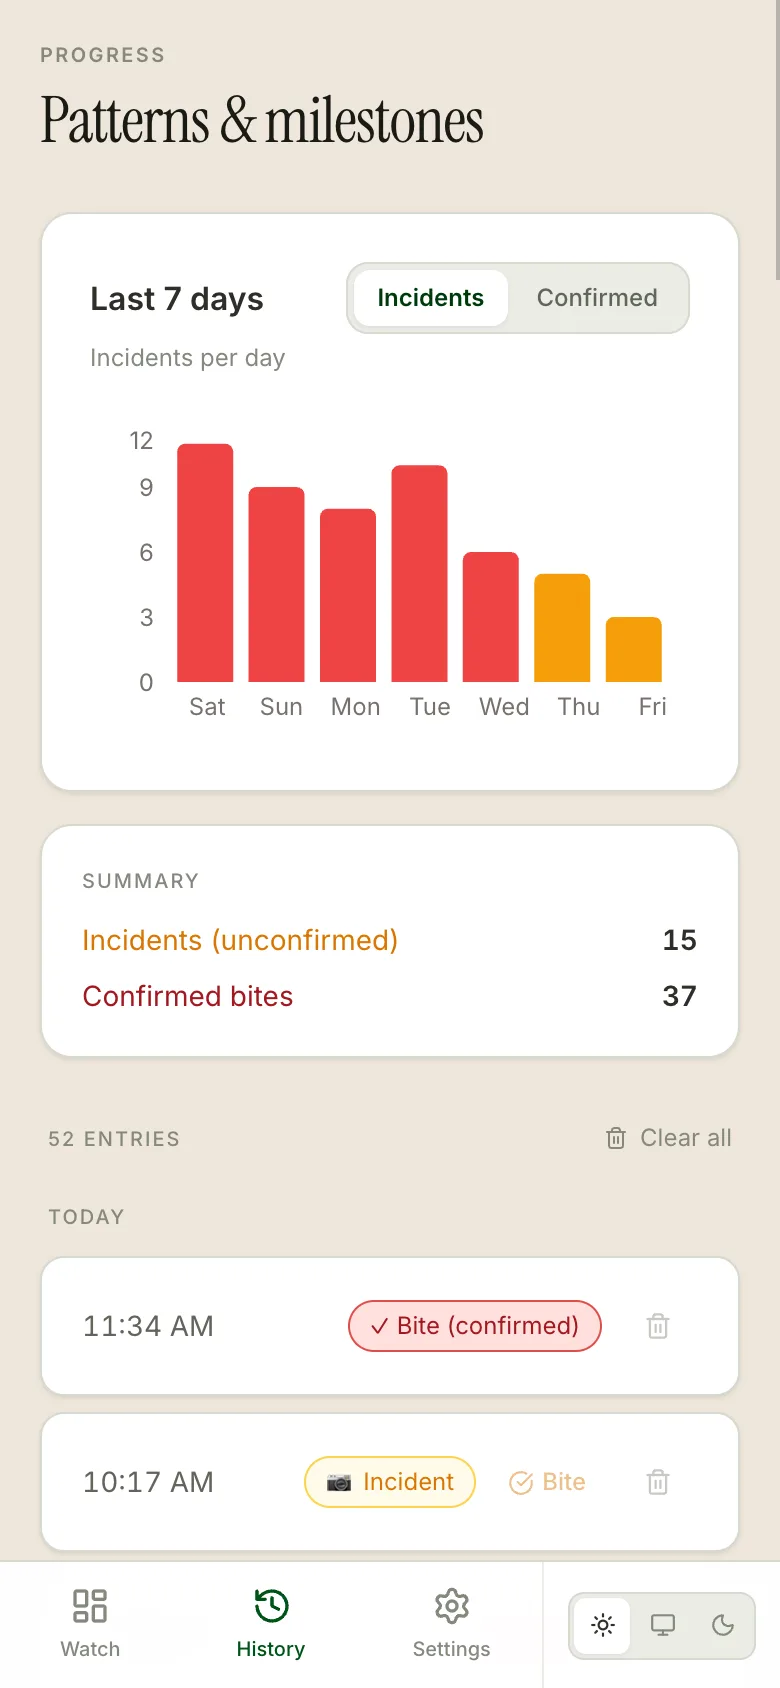
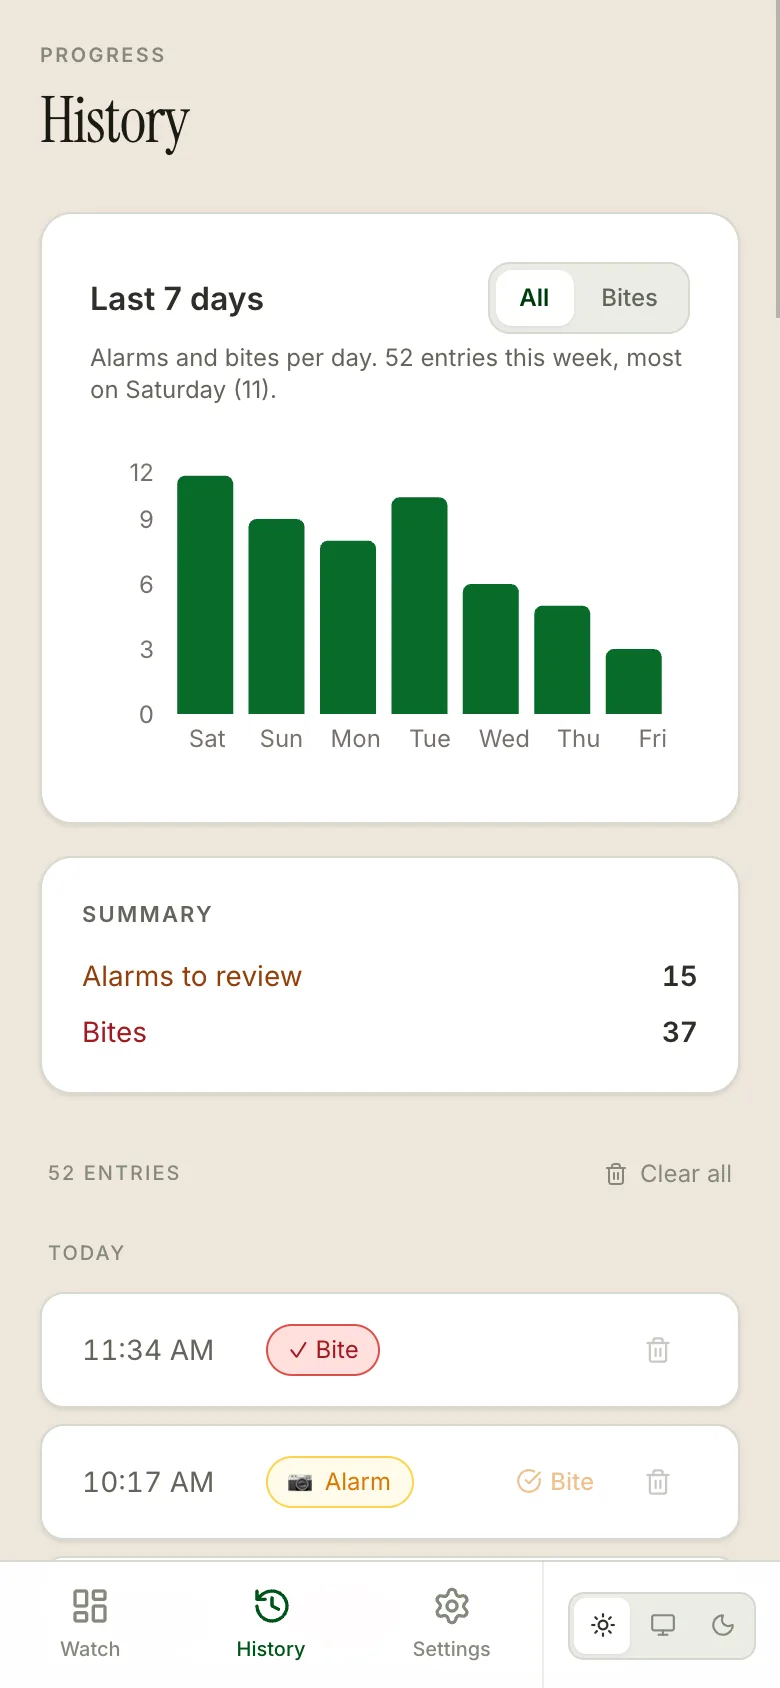
design(loop 5/10): make History say one thing with one vocabulary
Tags no longer jump sideways (time and tag grouped left, actions in their own group). One pair of words: Alarm (auto-detected, to review) and Bite; the chart toggle is All/Bites, the summary says Alarms to review/Bites, Today says alarms to review/bites. Title is History (there were no milestones). Chart: one forest fill instead of green/amber/red by count, a one-line text summary of the week, hidden when empty; Last 7 days and Summary are headings. Dead severity util removed. Homepage History screenshot recaptured. Checked light and dark.

diff --git a/src/pages/Log.tsx b/src/pages/Log.tsx
@@ -2,22 +2,19 @@ import { useState } from 'react';
 import { Trash2, CheckCircle } from 'lucide-react';
 import { useAppStore } from '../store/useAppStore';
 import { formatTime, formatDate } from '../utils/time';
-import { BarChart, Bar, XAxis, YAxis, Tooltip, ResponsiveContainer, Cell } from 'recharts';
+import { BarChart, Bar, XAxis, YAxis, Tooltip, ResponsiveContainer } from 'recharts';
 import { subDays, startOfDay, format } from 'date-fns';
 import { PageHeader } from '../components/layout/PageHeader';
 import { SegmentedControl } from '../components/ui/SegmentedControl';
 import type { CustomTag, Incident, StatsMetric } from '../types';
-import { severityForCount, type Severity } from '../utils/severity';
+// One fill for every bar. Colouring bars by count (green, amber, red) meant a
+// quiet day read as "safe" and clashed with the amber/red used for alarms and
+// bites right beside the chart.
+const BAR_FILL = { light: 'oklch(46% 0.13 148)', dark: 'oklch(62% 0.13 148)' };
 
-const SEVERITY_FILL: Record<Severity, { light: string; dark: string }> = {
-  none:   { light: '#e7e5e4', dark: '#374151' },
-  low:    { light: '#86efac', dark: '#166534' },
-  medium: { light: '#f59e0b', dark: '#f59e0b' },
-  high:   { light: '#ef4444', dark: '#ef4444' },
-};
-
-// Incidents = auto-detected & not yet confirmed as a bite (amber)
-// Bites = manually logged OR confirmed auto-detected (red)
+// Two words, used the same way everywhere:
+// Alarm = auto-detected and not yet reviewed (amber)
+// Bite  = logged by hand OR an alarm confirmed as a bite (red)
 function isConfirmedBite(inc: Incident) {
   return !inc.autoDetected || inc.confirmed === true;
 }
@@ -60,6 +57,13 @@ function WeekChart() {
     return { day: format(date, 'EEE'), count, date };
   });
 
+  const total = days.reduce((n, d) => n + d.count, 0);
+  const busiest = days.reduce((a, b) => (b.count > a.count ? b : a), days[0]);
+  const noun = weekChartMetric === 'confirmed' ? 'bite' : 'entry';
+  const summary = total === 0
+    ? `No ${noun === 'bite' ? 'bites' : 'entries'} in the last 7 days.`
+    : `${total} ${total === 1 ? noun : noun === 'bite' ? 'bites' : 'entries'} this week, most on ${format(busiest.date, 'EEEE')} (${busiest.count}).`;
+
   const tickColor = isDark ? '#6b7280' : '#78716c';
   const tooltipBg = isDark ? 'oklch(18% 0.010 200)' : '#fafaf9';
   const tooltipBorder = isDark ? 'oklch(9% 0.005 200)' : '#e7e5e4';
@@ -68,18 +72,18 @@ function WeekChart() {
   return (
     <div className="bg-white dark:bg-ink-50 border border-stone-200 dark:border-ink-400 rounded-2xl p-6 shadow-card dark:shadow-card-dark">
       <div className="flex items-center justify-between mb-1">
-        <p className="text-stone-700 dark:text-stone-200 font-semibold">Last 7 days</p>
+        <h2 className="text-stone-700 dark:text-stone-200 font-semibold">Last 7 days</h2>
         <SegmentedControl<StatsMetric>
           value={weekChartMetric}
           onChange={setWeekChartMetric}
           options={[
-            { label: 'Incidents', value: 'incidents' },
-            { label: 'Confirmed', value: 'confirmed' },
+            { label: 'All', value: 'incidents' },
+            { label: 'Bites', value: 'confirmed' },
           ]}
         />
       </div>
-      <p className="text-stone-400 dark:text-stone-500 text-xs mb-6">
-        {weekChartMetric === 'confirmed' ? 'Confirmed bites per day' : 'Incidents per day'}
+      <p className="text-stone-500 dark:text-stone-400 text-xs mb-6">
+        {weekChartMetric === 'confirmed' ? 'Bites per day' : 'Alarms and bites per day'}. {summary}
       </p>
       <ResponsiveContainer width="100%" height={160}>
         <BarChart data={days} margin={{ top: 0, right: 0, left: -20, bottom: 0 }}>
@@ -91,11 +95,7 @@ function WeekChart() {
             itemStyle={{ color: isDark ? '#f87171' : '#dc2626' }}
             cursor={{ fill: isDark ? 'rgba(255,255,255,0.04)' : 'rgba(0,0,0,0.03)' }}
           />
-          <Bar dataKey="count" name={weekChartMetric === 'confirmed' ? 'confirmed bites' : 'incidents'} radius={[4, 4, 0, 0]}>
-            {days.map((entry, index) => (
-              <Cell key={index} fill={SEVERITY_FILL[severityForCount(entry.count)][isDark ? 'dark' : 'light']} />
-            ))}
-          </Bar>
+          <Bar dataKey="count" name={weekChartMetric === 'confirmed' ? 'bites' : 'entries'} radius={[4, 4, 0, 0]} fill={BAR_FILL[isDark ? 'dark' : 'light']} />
         </BarChart>
       </ResponsiveContainer>
     </div>
@@ -155,27 +155,27 @@ export function Log() {
 
   return (
     <div className="p-5 sm:p-8 pb-10">
-      <PageHeader eyebrow="Progress" title="Patterns & milestones" />
+      <PageHeader eyebrow="Progress" title="History" />
 
       {/* Split: chart left, incident list right — stacks on narrow sidebar viewports */}
       <div className="grid grid-cols-1 xl:grid-cols-[340px_1fr] gap-8 items-start">
 
         {/* Left: sticky chart + summary */}
         <div className="xl:sticky xl:top-8 flex flex-col gap-4">
-          <WeekChart />
+          {incidents.length > 0 && <WeekChart />}
 
           {incidents.length > 0 && (
             <div className="bg-white dark:bg-ink-50 border border-stone-200 dark:border-ink-400 rounded-2xl p-5 shadow-card dark:shadow-card-dark">
-              <p className="text-stone-400 dark:text-stone-500 text-[10px] uppercase tracking-widest mb-3 font-medium">Summary</p>
+              <h2 className="text-stone-500 dark:text-stone-400 text-[11px] uppercase tracking-widest mb-3 font-semibold">Summary</h2>
               <div className="space-y-2 text-sm">
                 <div className="flex justify-between">
-                  <span className="text-amber-600 dark:text-amber-400">Incidents (unconfirmed)</span>
+                  <span className="text-amber-800 dark:text-amber-400">Alarms to review</span>
                   <span className="text-stone-700 dark:text-stone-200 font-semibold tabular-nums">
                     {incidents.filter(i => i.autoDetected && !i.confirmed).length}
                   </span>
                 </div>
                 <div className="flex justify-between">
-                  <span className="text-alert-600 dark:text-alert-400">Confirmed bites</span>
+                  <span className="text-alert-600 dark:text-alert-400">Bites</span>
                   <span className="text-stone-700 dark:text-stone-200 font-semibold tabular-nums">
                     {incidents.filter(isConfirmedBite).length}
                   </span>
@@ -213,18 +213,21 @@ export function Log() {
                       const bite = isConfirmedBite(inc);
                       const tagColor = bite ? BITE_TAG_COLOR : INCIDENT_TAG_COLOR;
                       const tagLabel = bite
-                        ? (inc.confirmed && inc.tag === 'auto-detected' ? '✓ Bite (confirmed)' : biteTagLabel(inc, customTags))
-                        : '📷 Incident';
+                        ? biteTagLabel(inc, customTags)
+                        : '📷 Alarm';
                       return (
                         <div
                           key={inc.id}
-                          className="group bg-white dark:bg-ink-50 border border-stone-200 dark:border-ink-400 rounded-xl px-5 py-3.5 flex items-center justify-between shadow-card dark:shadow-card-dark"
+                          className="group bg-white dark:bg-ink-50 border border-stone-200 dark:border-ink-400 rounded-xl px-5 py-2 flex items-center gap-3 shadow-card dark:shadow-card-dark"
                         >
-                          <span className="text-stone-500 dark:text-stone-400 text-sm tabular-nums">{formatTime(inc.timestamp)}</span>
-                          <div className="flex items-center gap-2">
-                            <span className={`text-xs px-2.5 py-1 rounded-full border ${tagColor}`}>
-                              {tagLabel}
-                            </span>
+                          {/* Time and tag together on the left, actions in
+                              their own group on the right: hidden actions
+                              used to push every tag to a different x. */}
+                          <span className="w-20 flex-shrink-0 text-stone-500 dark:text-stone-400 text-sm tabular-nums">{formatTime(inc.timestamp)}</span>
+                          <span className={`text-xs px-2.5 py-1 rounded-full border ${tagColor}`}>
+                            {tagLabel}
+                          </span>
+                          <div className="ml-auto flex items-center gap-1">
                             {inc.autoDetected && !inc.confirmed && (
                               <button
                                 onClick={() => confirmIncident(inc.id)}

diff --git a/src/pages/Landing.tsx b/src/pages/Landing.tsx
@@ -253,7 +253,7 @@ export function Landing() {
                 height={844}
                 loading="lazy"
                 decoding="async"
-                alt="The History screen on a phone: bites per day for the last seven days, then each entry with its time and trigger, such as Focus or Stress."
+                alt="The History screen on a phone: alarms and bites per day for the last seven days with a one-line weekly summary, then each entry with its time and what it was: an alarm to review, a bite, or a trigger such as Focus."
                 className="w-full rounded-lg border border-[color:var(--sg-rule)]"
               />
               <figcaption className="sg-note mt-2">Shown with example data.</figcaption>

diff --git a/src/components/dashboard/TodayStats.tsx b/src/components/dashboard/TodayStats.tsx
@@ -18,7 +18,7 @@ export function TodayStats() {
             {incidentCount}
           </p>
           <p className="text-[10px] uppercase tracking-[1px] text-stone-400 dark:text-stone-500 mt-2 font-medium">
-            incidents logged
+            alarms to review
           </p>
         </div>
         <div>
@@ -26,7 +26,7 @@ export function TodayStats() {
             {biteCount}
           </p>
           <p className="text-[10px] uppercase tracking-[1px] text-stone-400 dark:text-stone-500 mt-2 font-medium">
-            bites confirmed
+            bites
           </p>
         </div>
       </div>

diff --git a/tasks/design-loop.md b/tasks/design-loop.md
@@ -1,14 +1,14 @@
 # Design loop (10 iterations, every 5 min)
 
-iterations: 4
+iterations: 5
 
 ## Log
 - 1/10: grid alignment (History, Why this exists, privacy 2-col), hero demo column de-duplicated, contact form gap + voice
 
 ## Backlog (from the loop-4 reviews; one per iteration, top first)
-- 5: History screen: time+pill left group and actions in their own ml-auto group (pills stop jumping); one vocabulary, Alarm vs Bite (chart "All"/"Bites", summary "Alarms to review"/"Bites", row tag "Alarm", TodayStats labels); PageHeader title "History" (no milestones exist); chart one fill (forest) + text summary line "{n} this week, most on {day}"; hide chart when empty; recapture public/shots History image.
 - 6: App a11y floor: 10px stone-400 labels -> text-xs stone-500 (dark stone-400); amber text (Best value, amber numbers, Alarm tag) to AA; app-wide :focus-visible ring (forest); aria-current on tabs; ThemeToggle aria-label/aria-pressed; remove 28px theme toggle from the mobile bottom bar; "Clear all" min-h-11; Last 7 days/Summary as h2, day groups h3.
 - 7: App typography: Overpass in the app (tailwind sans/display), PageHeader h1 in Overpass 800, remove eyebrows ("TODAY", "NAVIGATE", "PROGRESS"); keep cream/forest palette; update DESIGN.md.
 - 8: Paywall: no "Pro" tier name, sentence case, honest privacy line (sign-in/payment use network), FEATURES from PricingSection, "$29" consistent, badge without em dash, buttons "Subscribe monthly/yearly".
 - 9: /pricing + /how-it-works copy: PLAN_INCLUDES reuse card wording; "About 0.6 seconds" consistently; competing response matches the app's suggestions; video-never-leaves wording; drop em dashes; mirror in server.js.
 - 10: Final dual review pass of everything; fix what remains (candidate: mobile-specific hero screenshot).
+- 5/10: History: aligned tags, Alarm/Bite vocabulary, title History, single-colour chart with text summary; homepage shot updated
